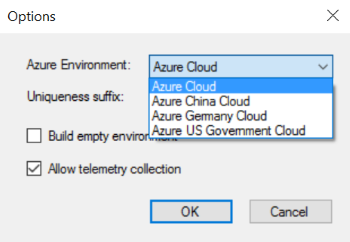
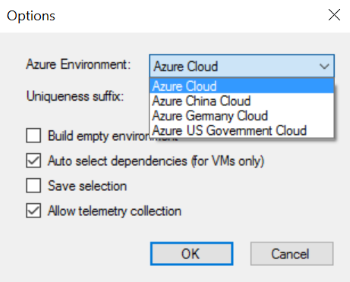
v1.4.5.0
. Update readme.md

diff --git a/migaz/readme.md b/migaz/readme.md
@@ -147,6 +147,14 @@ When exporting storage accounts and cloud services, the tool appends to the reso
 
 If this option is selected, the selected virtual machines will be exported to export.json file as new virtual machines with empty data disks. By default, Windows virtual machines will be created using Windows Server 2012 R2 Datacenter SKU and Linux virtual machine will be created using Ubuntu Server 16.04.0-LTS SKU. You can change this by editing the export.json template and change the image references.
 
+### Auto select dependencies
+
+If this option is selected, when you select a Virtual Machine, any dependent Virtual Network and Storage Accounts are selected automatically.
+
+### Save selection
+
+If this option is selected, migAz will record the last selected resources per each subscription. When you reopen the tool, the same resources will be automatically selected.
+
 ### Allow telemetry collection
 
 “Allow telemetry collection” is enabled by default. It is used to collect information such as Tenant ID, Subscription ID, Processed Resource Type, Processed Resource Location and the Execution date. This data is collected only to know the tool usage and it will remain only with the development team. You can disable this at any time.
@@ -190,6 +198,12 @@ In case of any issues during the deployment of the export.JSON you need to troub
 
 
 ## Release Notes
+
+### v1.4.5.0
+- Add Auto Select Dependencies option
+- Add Save Selection feature
+- Fix error when LoadBalancedEndpointSetName have spaces. Remove spaces
+- Correct behavior when new storage account name have more than 24 chars
 
 ### v1.4.4.0
 - Add requirement for Azure.Storage and AzureRM.Storage modules to be 2.0.1
